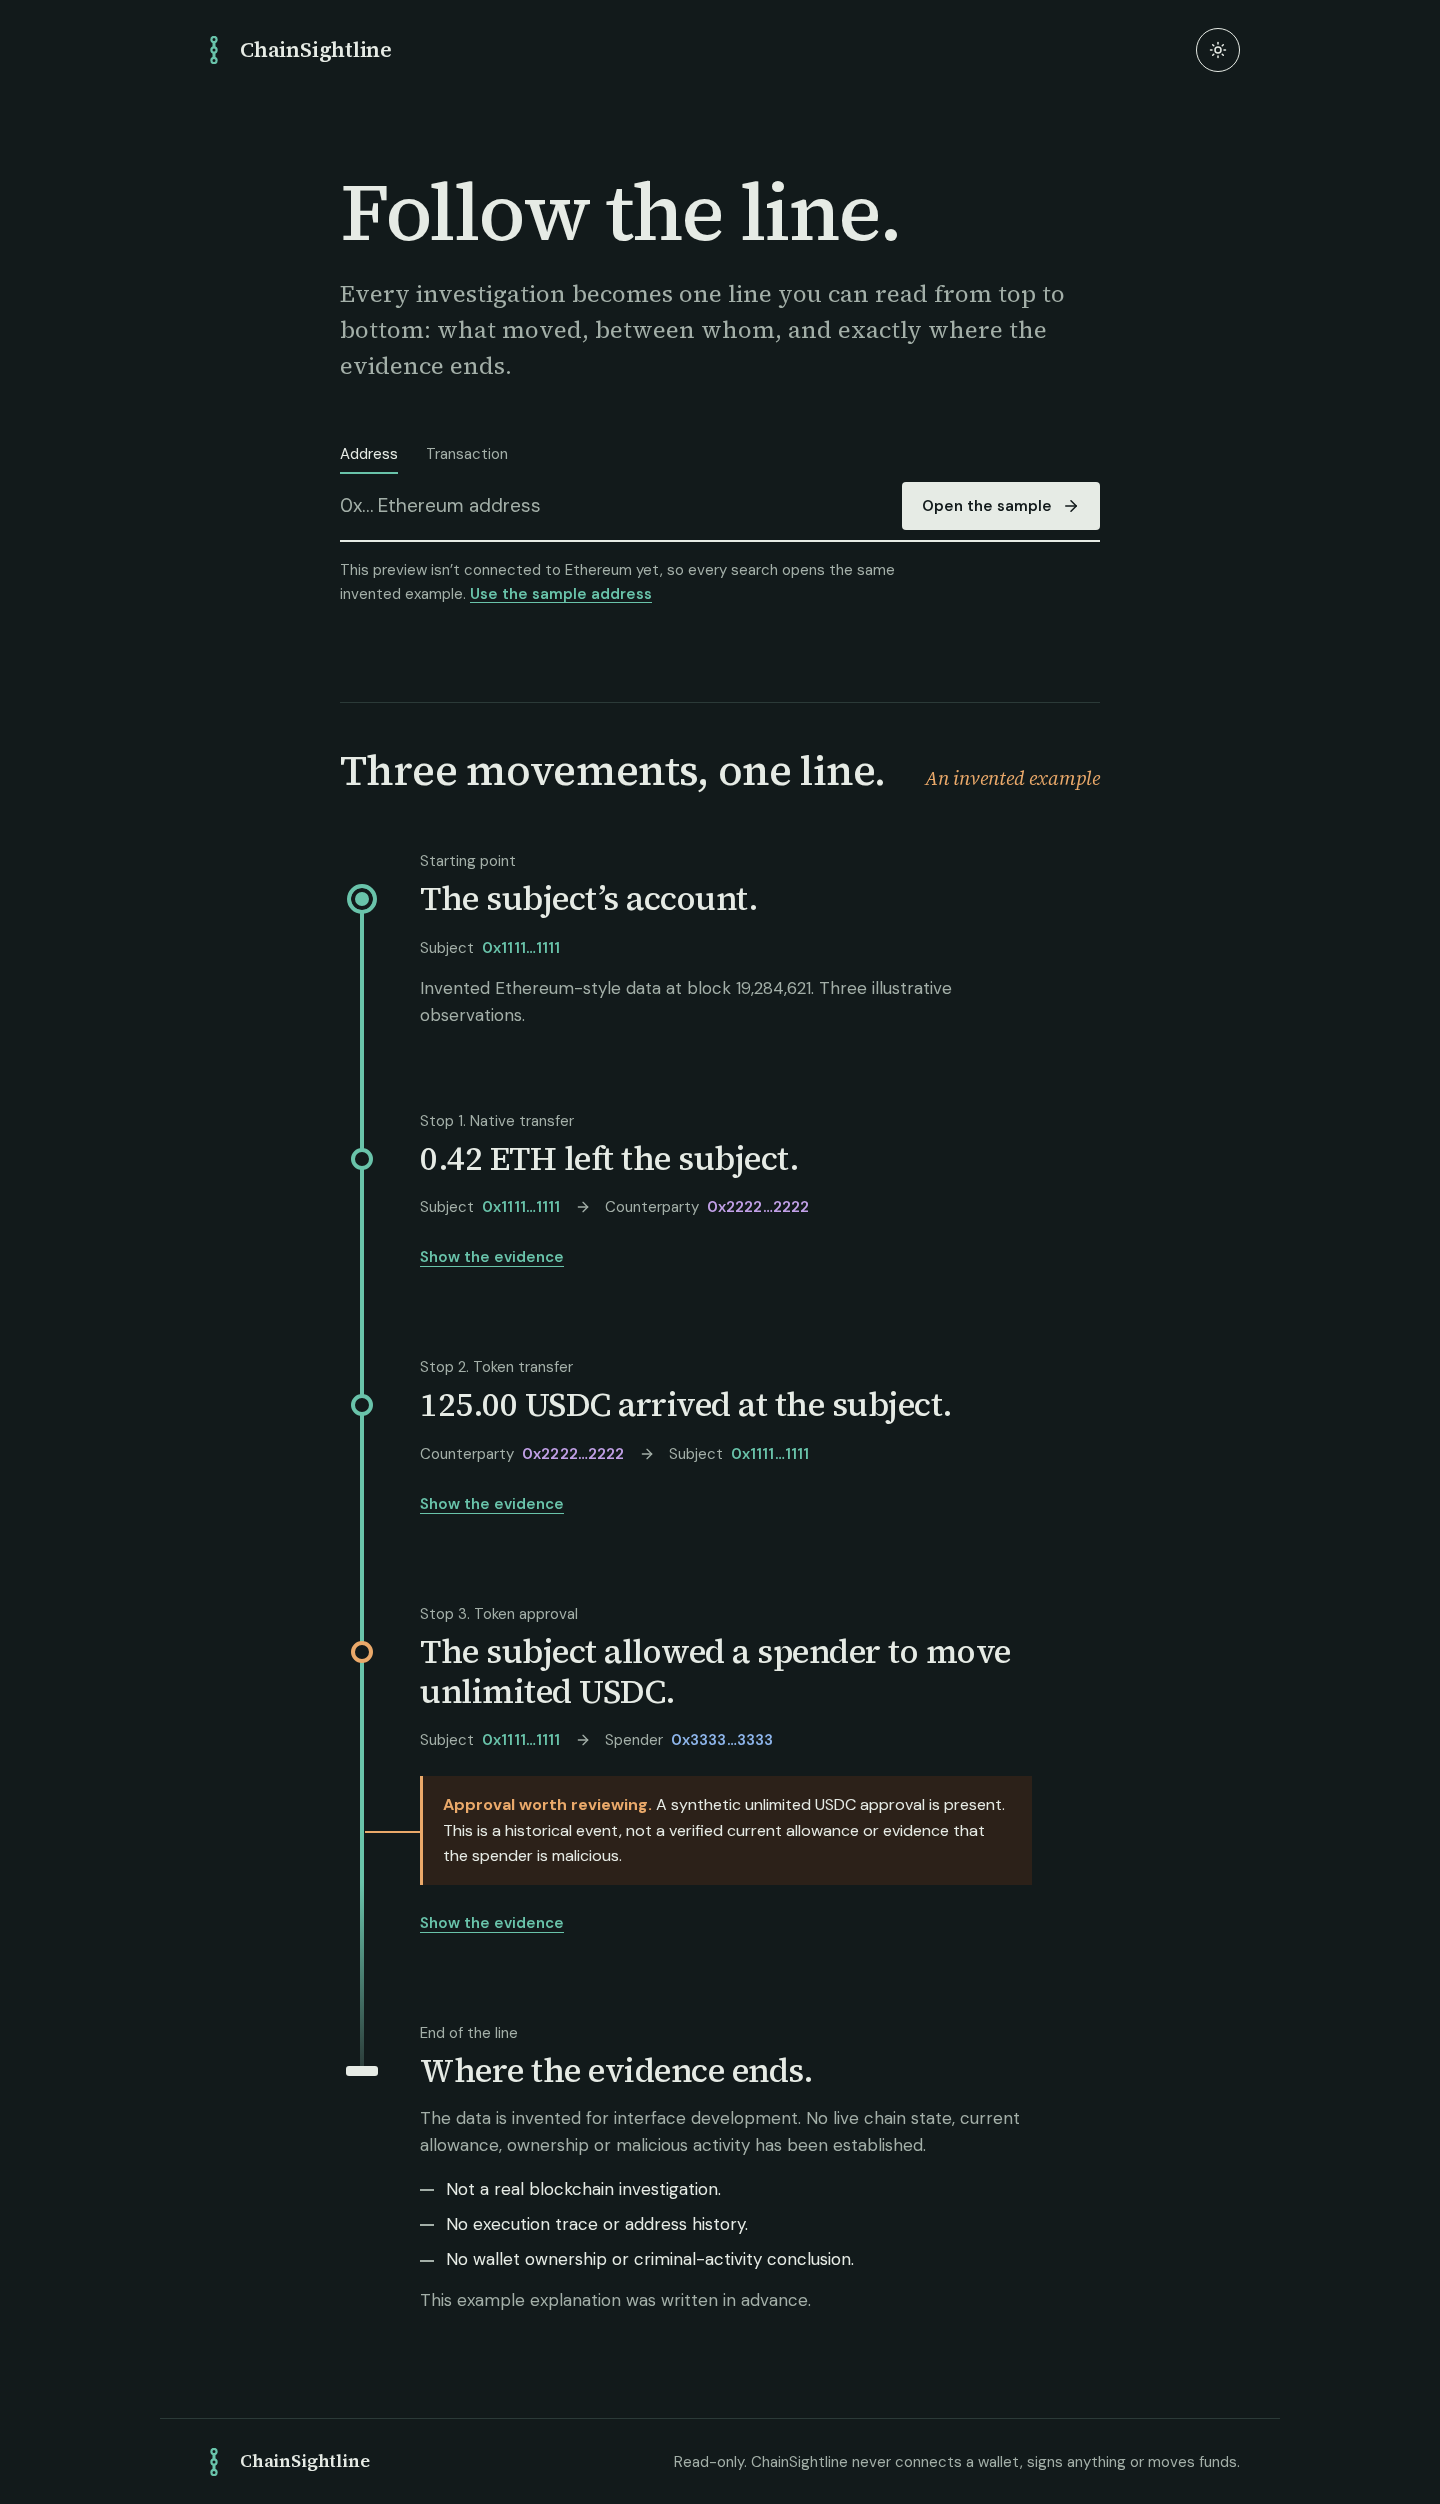
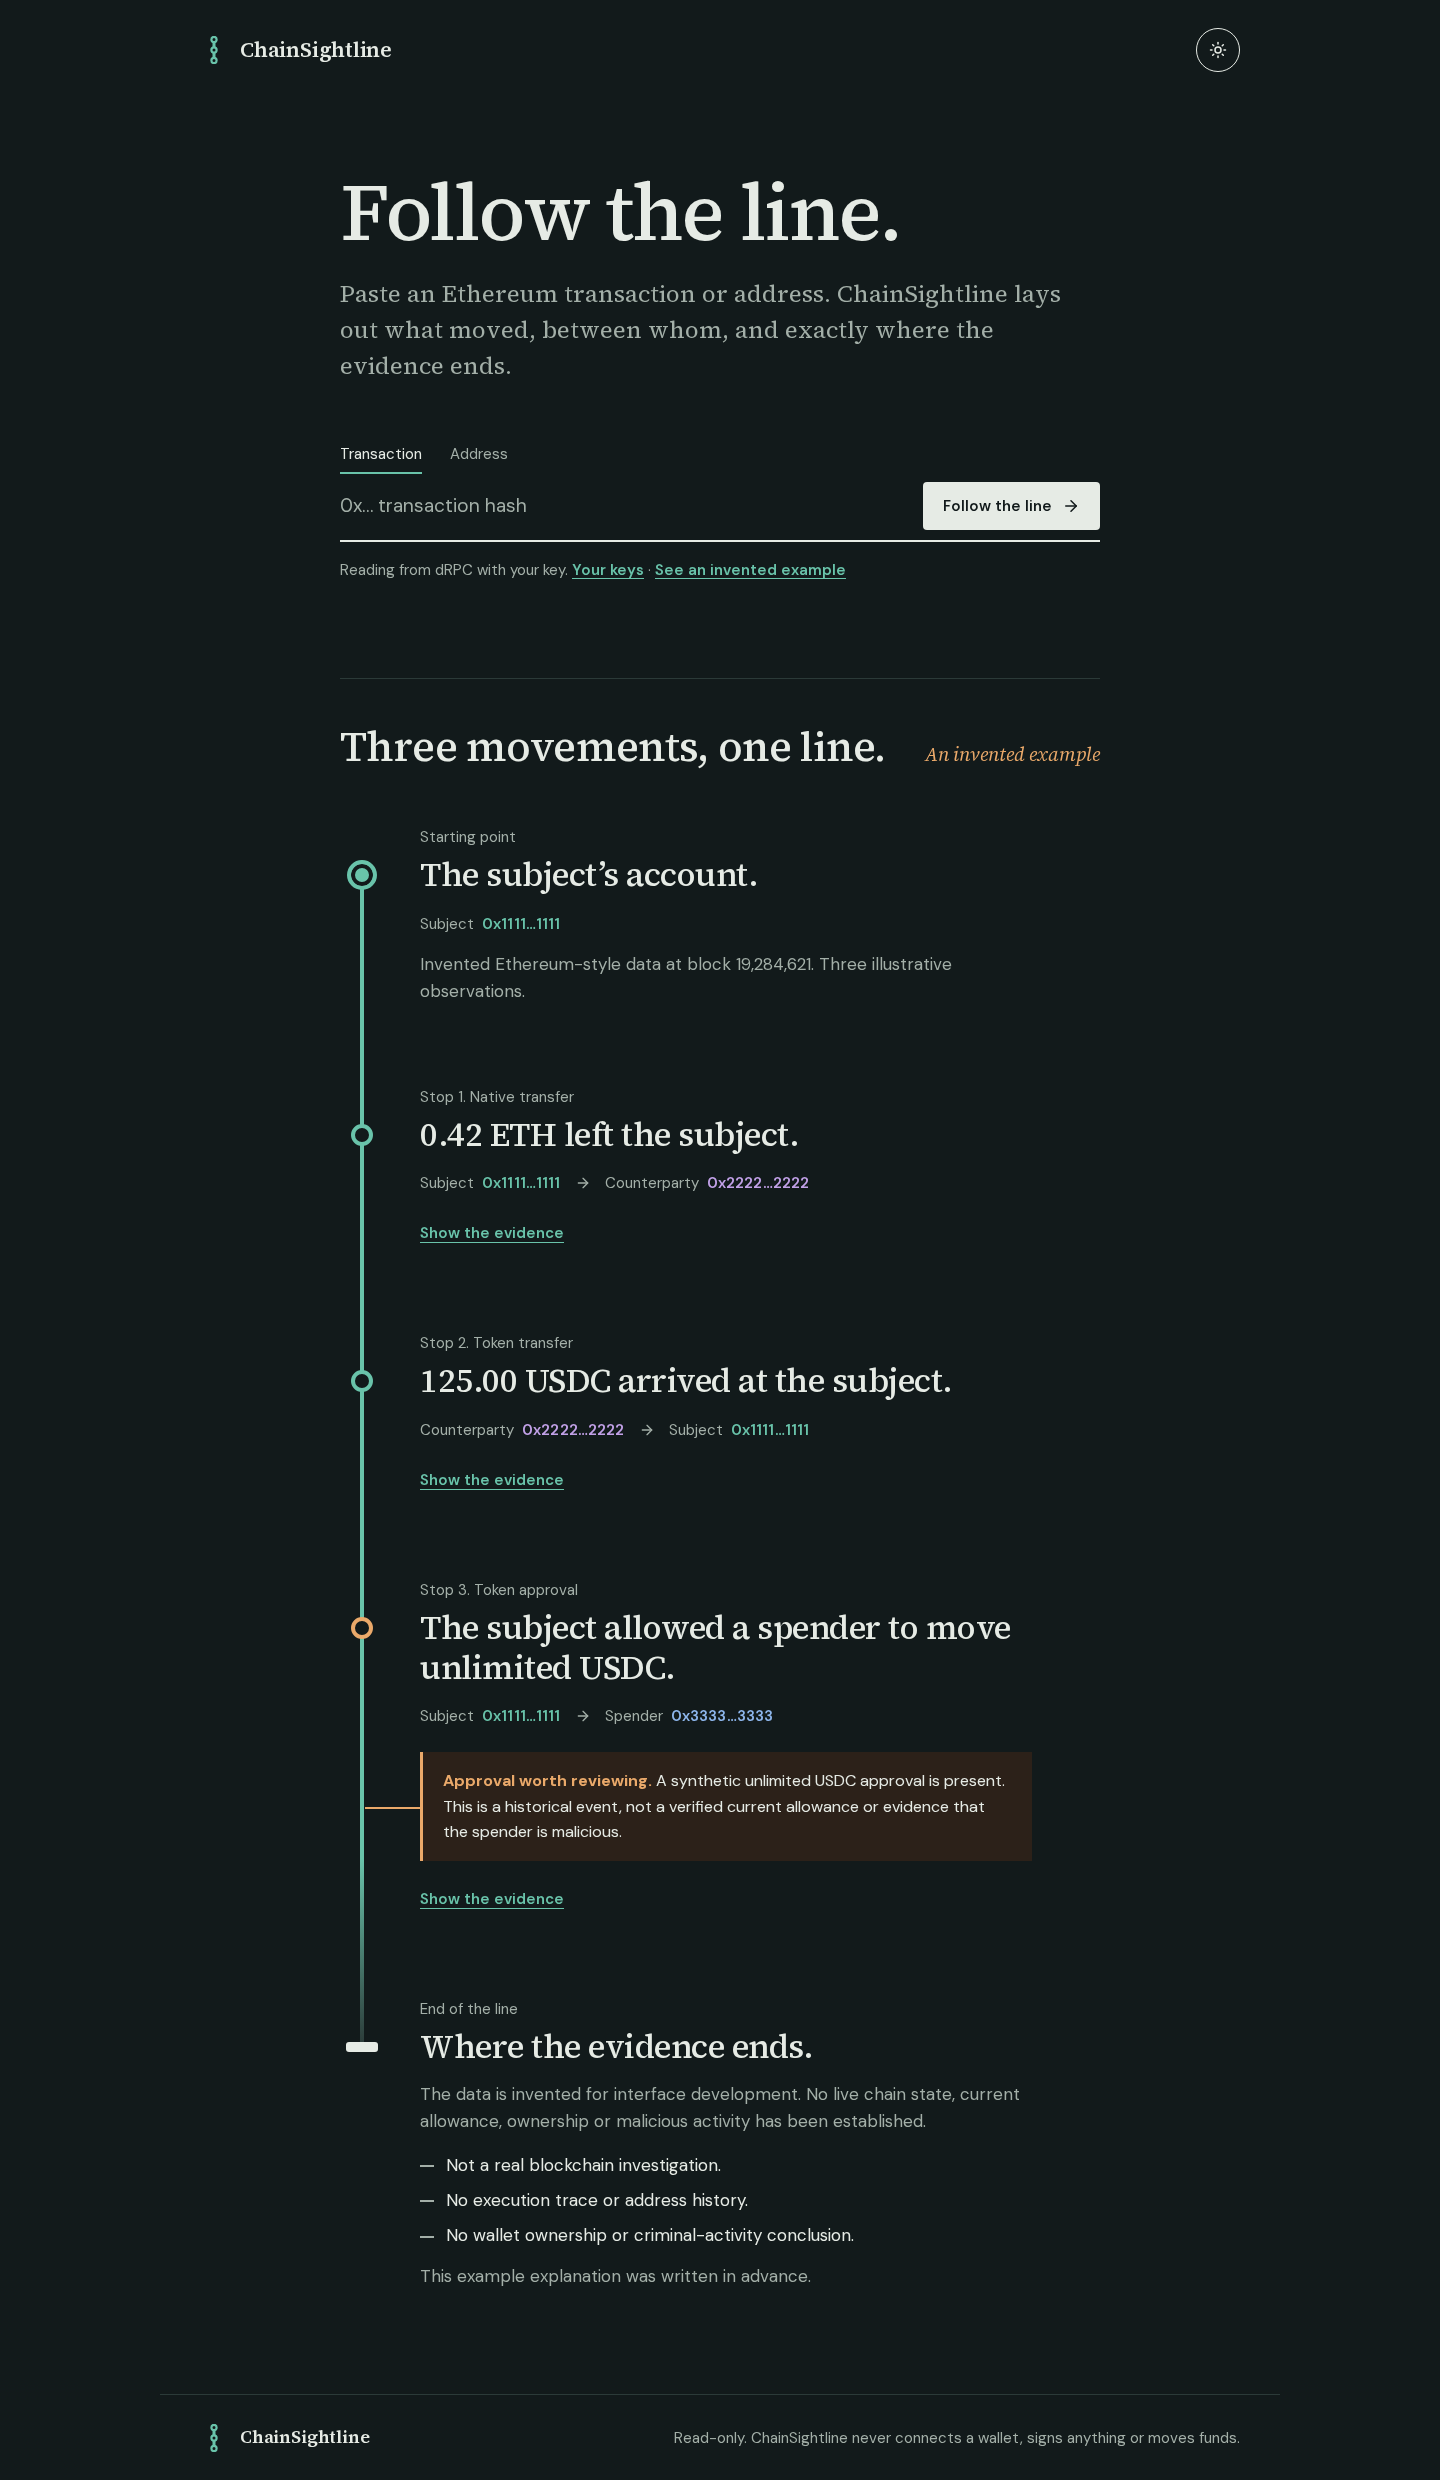
docs: show real routes and explain optional keys
- explain the three ways to add dRPC and Alchemy keys
- update how it works, the roadmap and screenshots with a real transaction
- record the live-data limits in the design system

diff --git a/README.md b/README.md
@@ -7,7 +7,7 @@
 **Follow the line.** ChainSightline turns blockchain activity into one route you read from top to bottom: what moved, between whom, which warnings deserve a look, and exactly where the evidence ends.
 
 > [!IMPORTANT]
-> **Early preview.** The website, terminal command and AI provider adapter work, but ChainSightline is **not connected to Ethereum yet**. Every search shows the same clearly labelled invented example.
+> **Early preview.** ChainSightline reads real Ethereum mainnet transactions with no setup and no keys. Address history needs a free Alchemy key. Detection rules are basic so far: a warning is a reason to look closer, never a verdict.
 
 <p align="center">
   <img src="docs/assets/route-light.png" alt="A ChainSightline route in the light theme: a starting point and stops connected by one line" width="49%" />
@@ -27,10 +27,11 @@ npm install
 ### In your terminal
 
 ```sh
-npm run cli -- sample                 # draw the example route
-npm run cli -- trace 0xYourAddress    # paste any address or transaction hash
-npm run cli -- sample --evidence      # include full addresses for every stop
-npm run cli -- sample --json          # machine-readable output
+npm run cli -- trace 0xTransactionHash   # follow a real transaction, no key needed
+npm run cli -- trace 0xAddress           # recent transfers in and out (needs an Alchemy key)
+npm run cli -- trace 0x… --evidence      # add full addresses and exact amounts
+npm run cli -- trace 0x… --json          # machine-readable output
+npm run cli -- sample                    # the invented example route
 ```
 
 Run `npm link` once to use it as `chainsightline` from anywhere, for example `chainsightline trace 0x…`.
@@ -56,17 +57,34 @@ npm stop             # stop without deleting data
 
 The container is read-only, runs as a non-root user and is reachable only from your own computer.
 
+## Your own keys (optional)
+
+ChainSightline works out of the box using dRPC's free public access. Free keys of your own make it faster and unlock more:
+
+| Key | What it adds | Get one |
+| --- | --- | --- |
+| dRPC | Faster, more reliable transaction lookups | [drpc.org](https://drpc.org/login): create a key, open its Settings tab, copy the key |
+| Alchemy | Address history: recent transfers in and out of any address | [alchemy.com](https://www.alchemy.com): create an app for Ethereum, copy its API key |
+
+Add them whichever way is easiest:
+
+- **In the website:** click **Your keys** under the search box and paste. Each key is checked before it is saved.
+- **In the terminal:** run `chainsightline setup` (or `npm run cli -- setup`). `chainsightline keys` shows what is set.
+- **In a file:** put `DRPC_KEY=…` and `ALCHEMY_API_KEY=…` in a `.env` file in the project folder. Docker picks these up too.
+
+You can paste either the key itself or the whole link the provider shows you. Keys stay on your computer (`~/.config/chainsightline/keys.json`, readable only by you), are only ever sent to the provider they belong to, and never appear in output or error messages.
+
 ## How it works
 
 ```mermaid
 flowchart LR
-    A["Address or transaction"] --> B["Collect evidence<br/>(planned)"]
+    A["Address or transaction"] --> B["Collect evidence<br/>dRPC or Alchemy"]
     B --> C["Normalise into stops"]
     C --> D["Explainable warnings"]
     D --> E["The route<br/>web or terminal"]
     E --> F["Optional cited<br/>AI explanation"]
 
-    style B fill:#f4f0e6,stroke:#9a4f17,color:#1d2928,stroke-dasharray:4 3
+    style B fill:#e3efe9,stroke:#21685c,color:#1d2928
     style A fill:#e3efe9,stroke:#21685c,color:#1d2928
     style C fill:#e3efe9,stroke:#21685c,color:#1d2928
     style D fill:#e3efe9,stroke:#21685c,color:#1d2928
@@ -75,11 +93,11 @@ flowchart LR
 ```
 
 1. You paste an address or transaction hash. It is checked before anything else happens.
-2. **Today** the server returns the invented example. **Planned:** a worker fetches receipts, token transfers and call traces from an Ethereum provider.
-3. Each movement becomes a stop with a plain sentence such as "0.42 ETH left the subject", plus the two addresses colour-coded and labelled by role.
-4. Rules attach warnings to the stop they concern, for example an unlimited token approval. A warning is a reason to look closer, never a verdict.
-5. The route ends with what is still unknown, so missing data never reads as safety.
-6. Optionally, an AI model (Kimi by default, or any compatible OpenRouter model) explains the route. Its answer must cite the evidence or it is rejected.
+2. ChainSightline asks a data provider for the transaction, its receipt, its block and its call trace. Your own key is used first; if it fails, dRPC's free public access takes over. For an address, Alchemy returns its 20 most recent transfers.
+3. Each movement becomes a stop with a plain sentence such as "0.42 ETH left the subject", plus the two addresses colour-coded and labelled by role. ETH sent with the transaction, ETH moved between contracts inside it, token and NFT transfers, and approvals are all included. Token names are read from the token contracts.
+4. Rules attach warnings to the stop they concern. Today that means unlimited token approvals and collection-wide NFT approvals. A warning is a reason to look closer, never a verdict.
+5. The route ends with what is still unknown, such as a missing call trace, hidden events, or movements beyond the first 40, so missing data never reads as safety.
+6. Planned: an AI model (Kimi by default, or any compatible OpenRouter model) explains the route. Its answer must cite the evidence or it is rejected. The adapter is built and tested but not yet wired into the app.
 
 The website and the terminal share the same evidence format and wording, so both always tell the same story.
 
@@ -121,10 +139,11 @@ See the [full architecture](docs/plans/2026-11-02-blockchain-investigation-tool-
 | Architecture and repository | Reviewed design, private repository and project guidance | Complete |
 | AI provider contract | Model-neutral evidence schema, OpenRouter adapter and offline tests | Complete for the preview |
 | Sightline website | One-line route design, intro, light and dark themes, mobile layout | Preview working |
-| Terminal command | `chainsightline trace`, `sample` and `web` without Docker | Preview working |
-| Live Ethereum investigation | Provider-backed transaction and bounded address history | Next |
+| Terminal command | `chainsightline trace`, `sample`, `web`, `setup` and `keys` without Docker | Preview working |
+| Live Ethereum investigation | Real transactions without keys; recent address history with Alchemy | Preview working |
+| Easy keys | Paste keys in the website or terminal, checked before saving | Preview working |
 | Branching routes | One address sending to several, shown on the line | Design needed |
-| Signals | Versioned, explainable rules with labelled test cases | Not started |
+| Signals | Versioned, explainable rules with labelled test cases | Approval rules only |
 | Cited AI analysis in the app | Configurable model explanations over frozen evidence | Adapter tested |
 | Private preview | Database, jobs, security, recovery and cost checks | Not started |
 
@@ -138,6 +157,7 @@ npm test               # unit tests for the evidence format, route wording, CLI 
 npm run typecheck
 npm run test:browser   # with the site running: phone, laptop and ultrawide checks in both themes
 npm run test:chain:live  # with DRPC_KEY in a local .env file: one real receipt and trace from Ethereum
+CHAINSIGHTLINE_LIVE_TX=0x… npm run test:browser   # also render a real transaction in the browser
 ```
 
 Kimi K3.1 Pro is the primary development model and the default product model. OpenRouter provides the provider-neutral transport; Kimi, OpenAI and Google models passed a small structured-output compatibility test. There is no silent fallback and privacy settings are never weakened automatically. See [AI provider configuration](docs/ai-providers.md) and the [smoke report](docs/reviews/2026-11-02-ai-provider-smoke.md). Real environment files are ignored by Git.

diff --git a/design_system/open-items.md b/design_system/open-items.md
@@ -1,11 +1,11 @@
 # Open items
 
-- Live chain providers and real evidence collection are not connected.
-- Search deliberately returns a labeled synthetic investigation.
-- AI explanation currently renders a deterministic fixture; no paid request is made.
+- Explanations are written by deterministic rules; the AI adapter is not wired into the app yet.
 - Database, authentication, jobs and durable investigations are not implemented.
-- The route view replaces the graph; branching routes (one address sending to several) need a design before live data arrives.
 - Passed local browser acceptance at 390, 1440 and 3440 widths, light/dark, interactions and health endpoint on 2026-11-02.
-- Docker launcher verified on 2026-11-02: `npm start` builds, starts and waits for a healthy loopback-only container. Host networking is used for the build step because this environment's bridge networking stalls npm; runtime port remains bound to 127.0.0.1.
+- Docker launcher verified on 2026-11-02: `npm start` builds, starts and waits for a healthy loopback-only container. Host networking is used for the build step, and the runtime network uses MTU 1280, because bridge networking stalled behind cj's WireGuard VPN; the port remains bound to 127.0.0.1.
 - Intro plays once per browser session, never blocks clicks and is skipped with reduced motion. Theme choice is remembered in local storage.
 - Terminal command (`chainsightline`) renders the same route; web mode runs without Docker via `next start`. Neither is published to npm.
+- 2026-11-03: live Ethereum transactions (keyless via dRPC public access) and Alchemy address history are connected. The invented example remains one click away and is labelled.
+- Movements within a transaction are grouped (ETH before token events), not in strict execution order.
+- Branching routes (one address sending to many) still render as a straight list of stops.

diff --git a/AGENTS.md b/AGENTS.md
@@ -1,6 +1,7 @@
 # Repository guidance
 
-- The website, terminal command and AI adapter run on invented evidence only. Do not describe planned capabilities, such as live Ethereum collection, as implemented or measured.
+- The website and terminal read real Ethereum transactions (keyless via dRPC public access) and address history (with an Alchemy key). AI explanations, durable storage and most detection rules are not built yet. Do not describe planned capabilities as implemented or measured.
+- Keys come from environment variables, the project `.env` or `~/.config/chainsightline/keys.json`. Never print, log or return them; `packages/chain/src/rpc.ts` redacts them from provider errors.
 - Use Kimi K3.1 Pro for most implementation work. Other models may provide specialist review. Product AI uses the provider-neutral evidence-analysis boundary, defaults to Kimi and supports compatible explicitly configured models. Never silently fall back or weaken privacy controls.
 - Follow `docs/plans/2026-11-02-blockchain-investigation-tool-design.md` for scope and evidence contracts.
 - Never commit credentials, private investigation data or unsanitized provider captures. `.env.example` must contain placeholders only.
